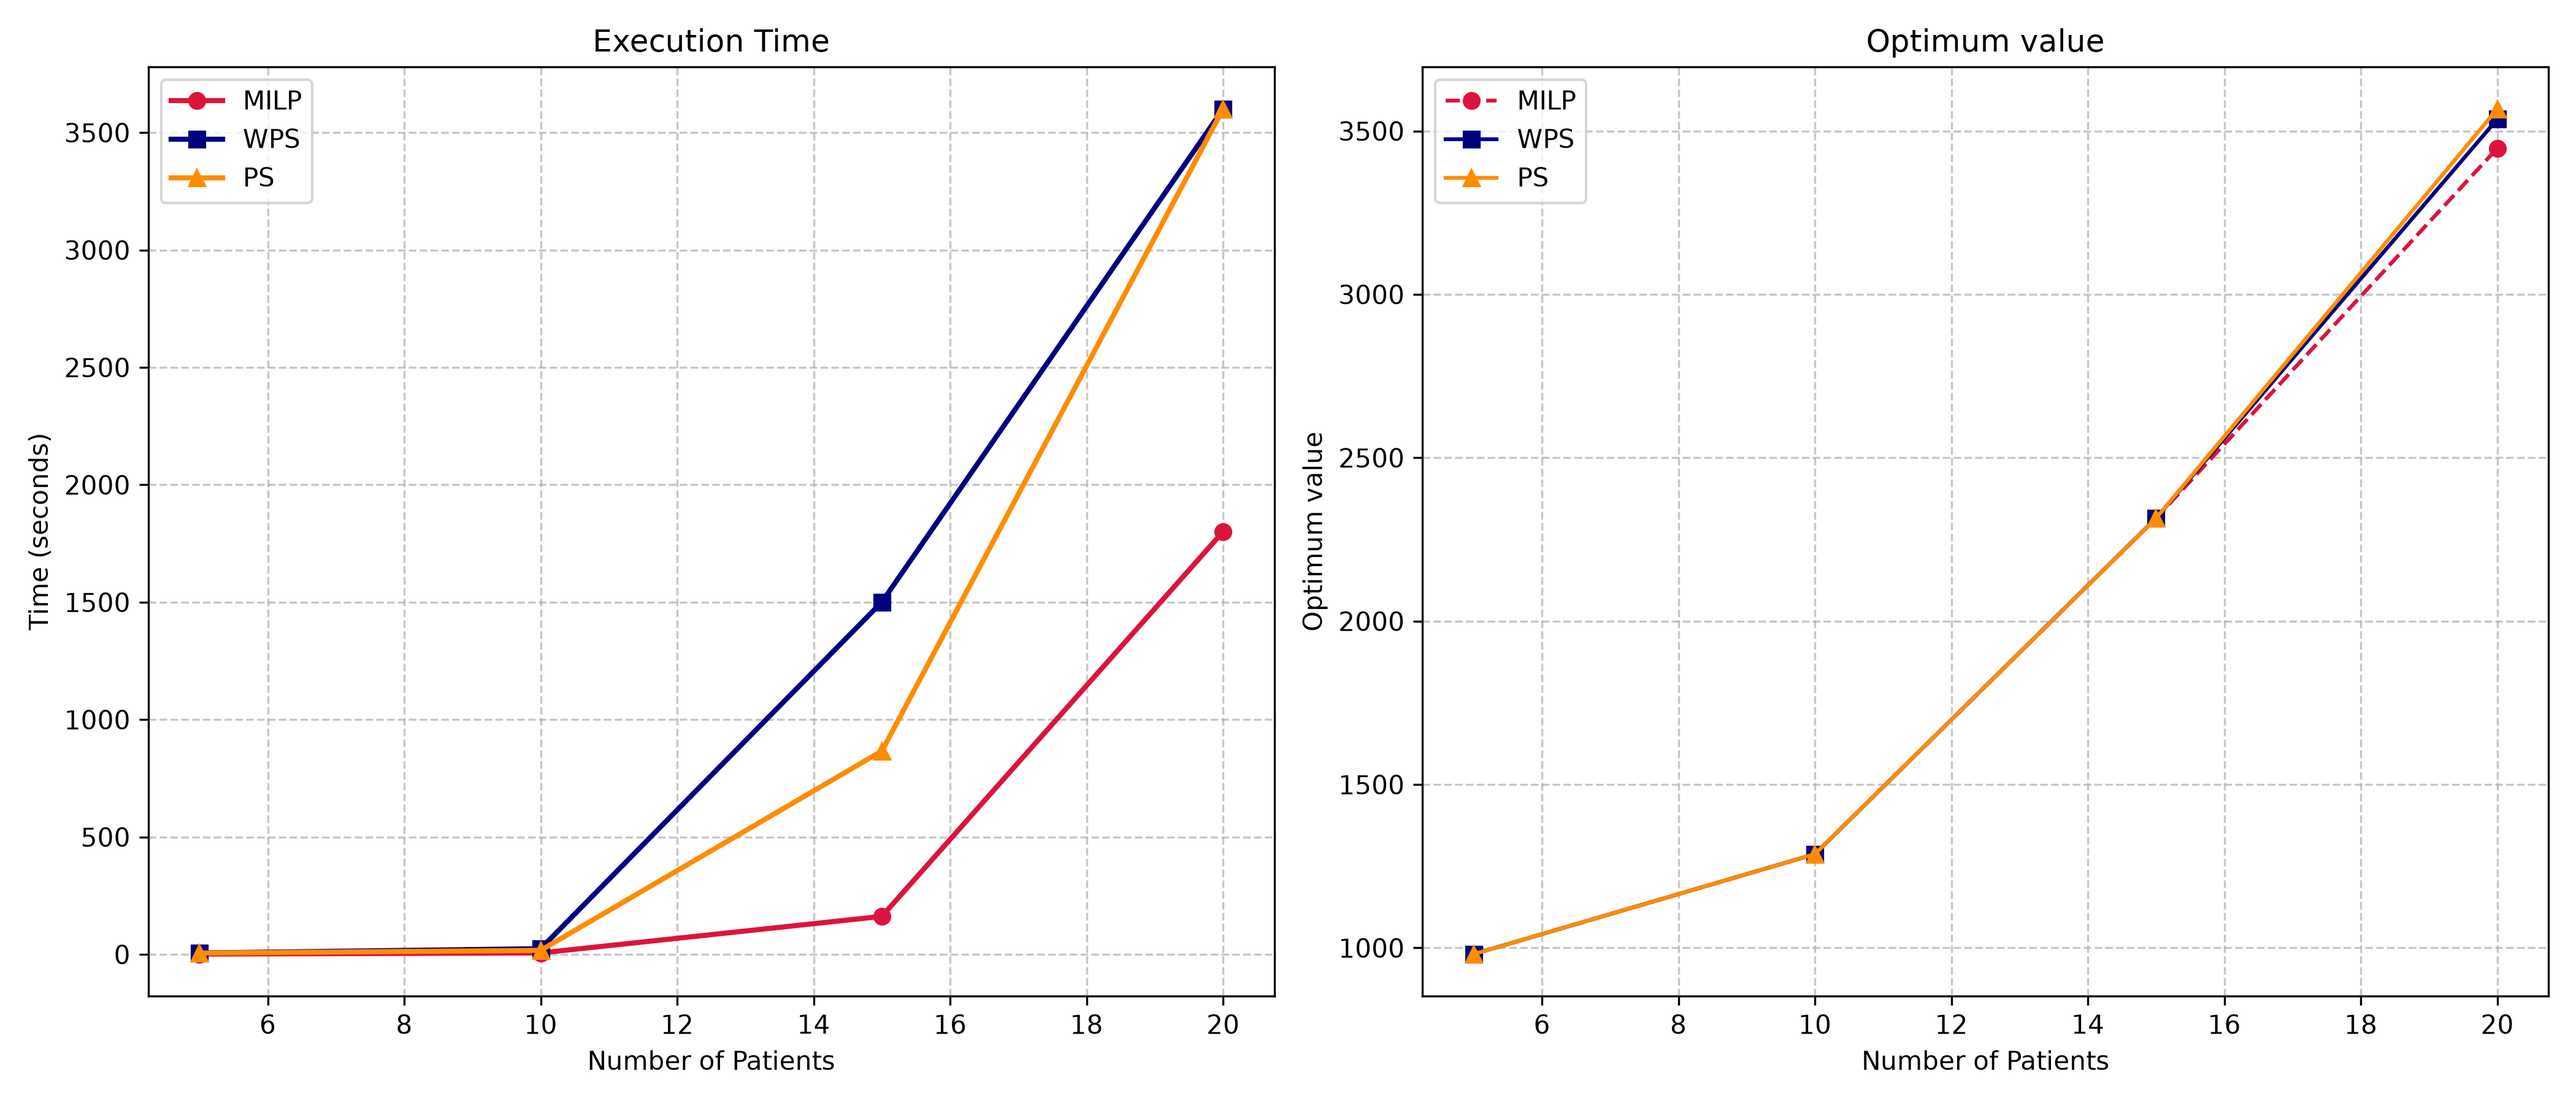
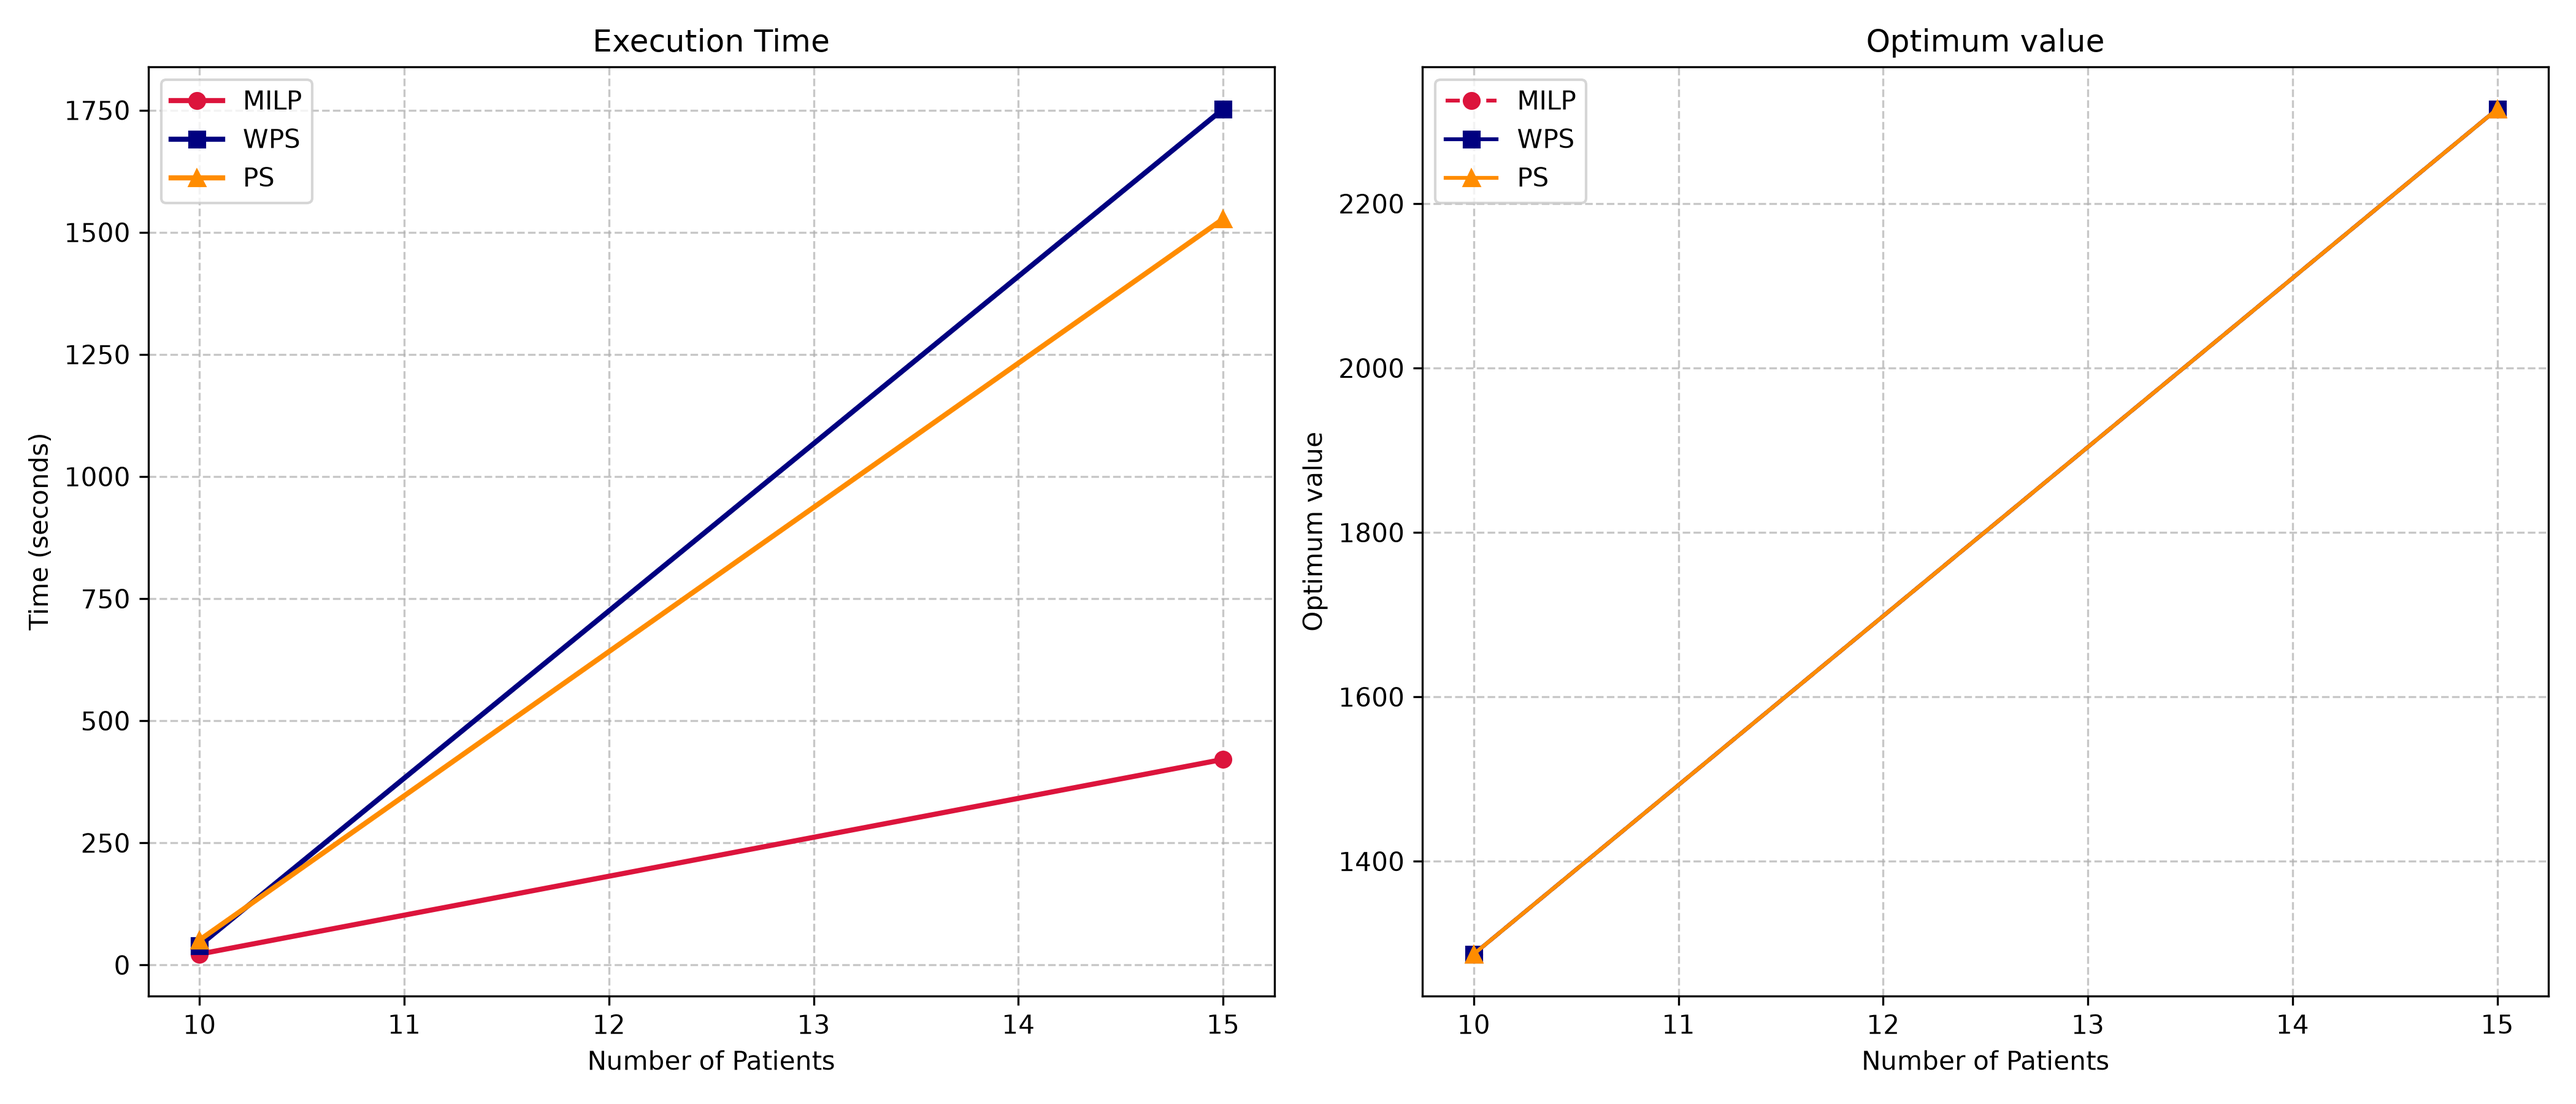
fixes

diff --git a/scalability.py b/scalability.py
@@ -23,7 +23,7 @@ def milp_time_callback(model, where):
 def run_scalability():
     sizes = [10, 15, 20]
     group_type = "A"
-    seed = 50
+    seed = 43
     timestamp = datetime.now().strftime("%Y-%m-%d_%H-%M-%S")
 
     csv_filename = f"scalability_results_{timestamp}_s={seed}.csv"
@@ -34,8 +34,8 @@ def run_scalability():
     for num_pat in sizes:
         print(f"Number of patients: {num_pat}")
 
-        #rough_data = get_rough_data(group_type, num_pat, seed)
-        rough_data = get_rough_updated_data(group_type, num_pat, seed)
+        rough_data = get_rough_data(group_type, num_pat, seed)
+        #rough_data = get_rough_updated_data(group_type, num_pat, seed)
         data = get_filtered_data(rough_data)
 
         print(f"\nSolving MILP")

diff --git a/data_from_model.py b/data_from_model.py
@@ -188,12 +188,13 @@ def filter_dataset_via_model(data):
     model.Params.MIPGap = 0.03      # Ferma il calcolo all'1% di GAP
     model.Params.DualReductions = 0 # Evita lo stato di errore (4)
     model.Params.outputFlag = 1
-    model.Params.TimeLimit = 300
+    #model.Params.TimeLimit = 300
+    print("-----------FILTERING DATASET-------------")
     model.optimize()
     
-    if model.Status != GRB.OPTIMAL and model.Status != GRB.SUBOPTIMAL:
-        print("Error")
-        return None
+    #if model.Status != GRB.OPTIMAL and model.Status != GRB.SUBOPTIMAL:
+    #    print("Error")
+    #    return None
 
     if model.SolCount > 0:        
         saved_visits = set()

diff --git a/updated_data_generator.py b/updated_data_generator.py
@@ -33,10 +33,17 @@ patients = []
 
 def get_dataset(gt, num_patients, seed=22):
 
-    global region_mapping, group_type
-    group_type = gt
+    global region_mapping, group_type, patients, vn, va, vh, vstar, driving_matrix
+    patients = []
+    vn = []
+    va = []
+    vh = []
+    vstar = []
+    driving_matrix = {}
 
     random.seed(seed)
+
+    group_type = gt
     if group_type == "A":
         regions, weights, center_region = ["Molde", "Sekken"], [0.65, 0.35], "Molde"
 
